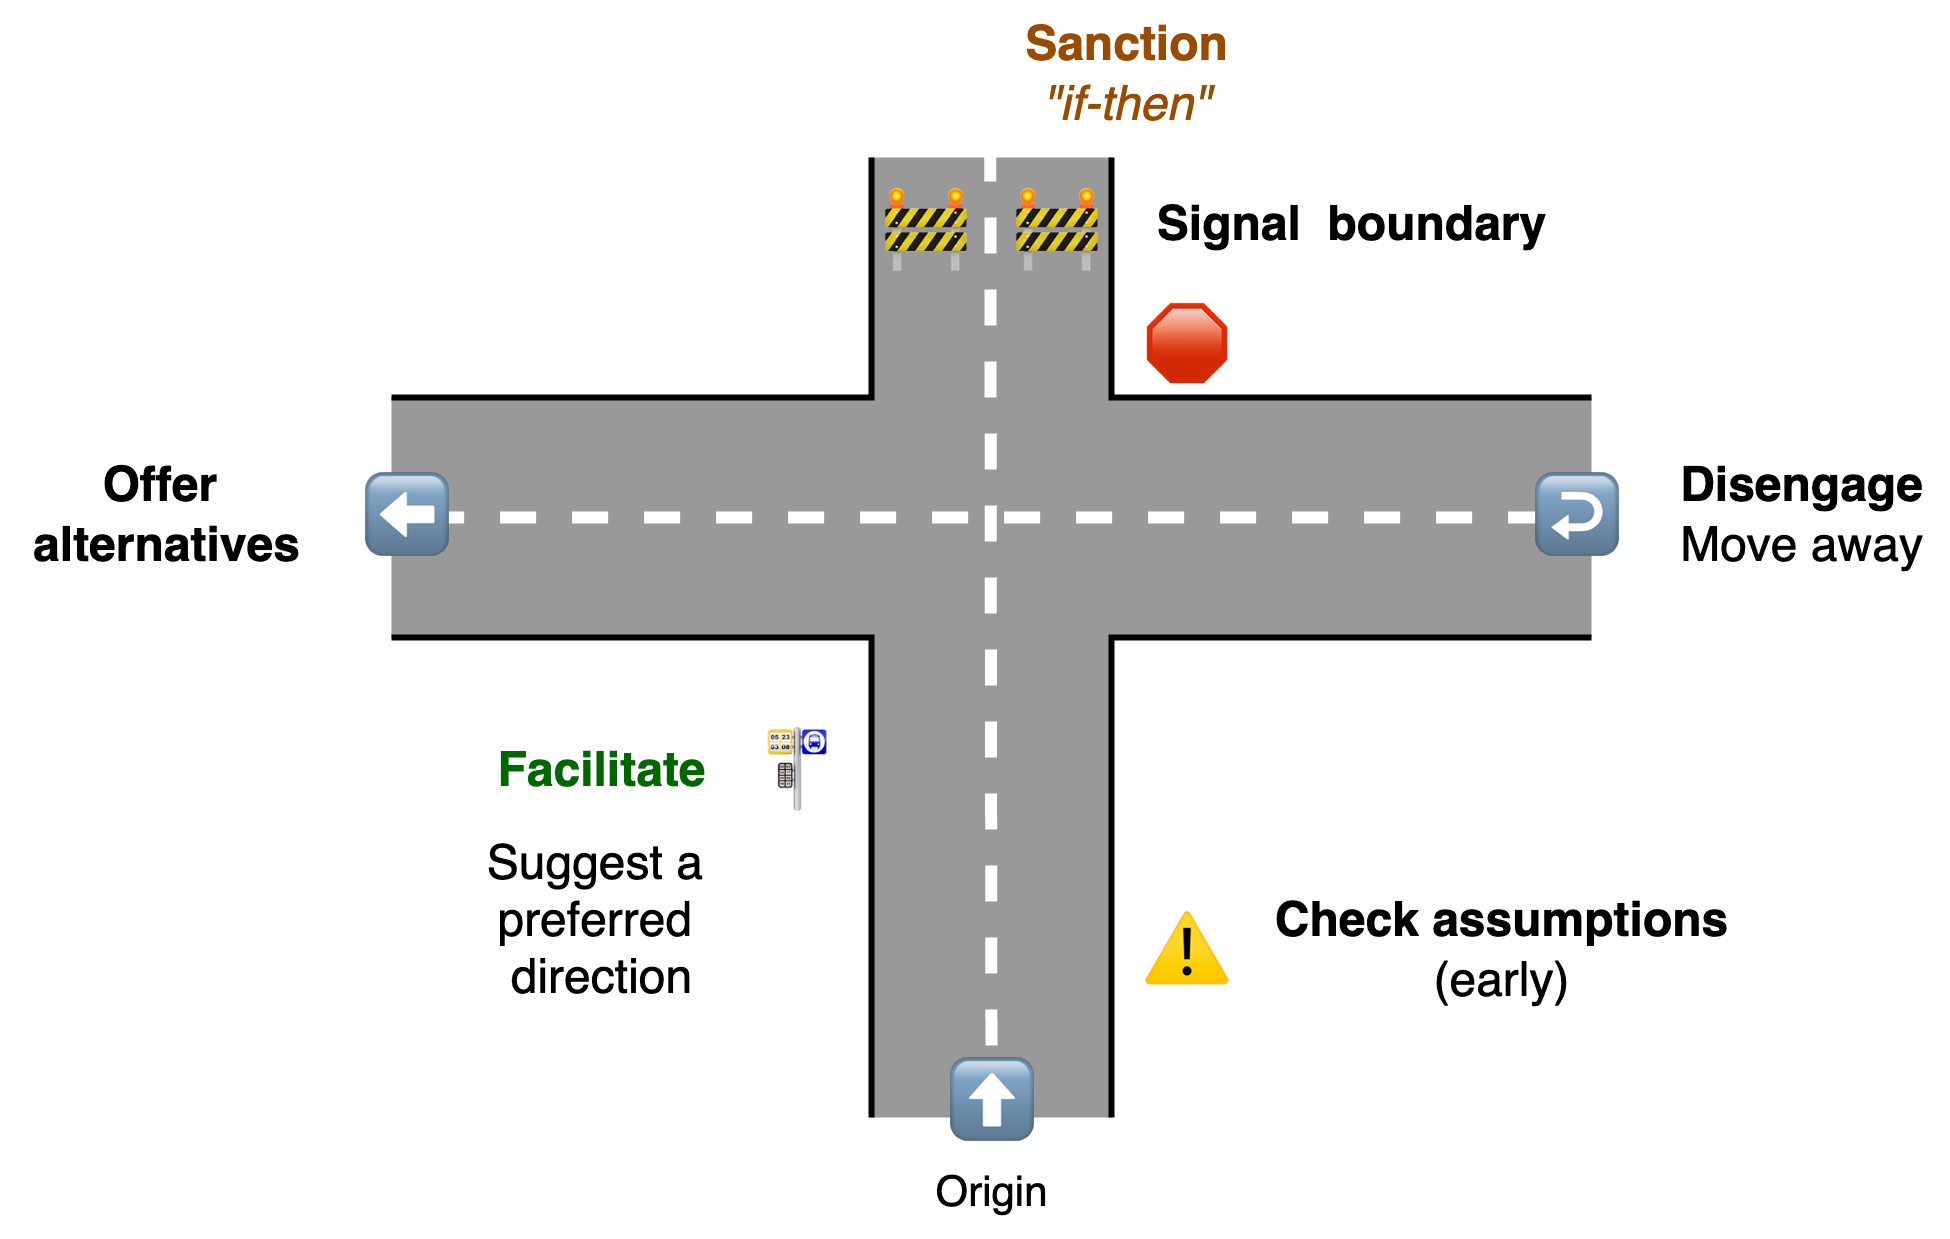
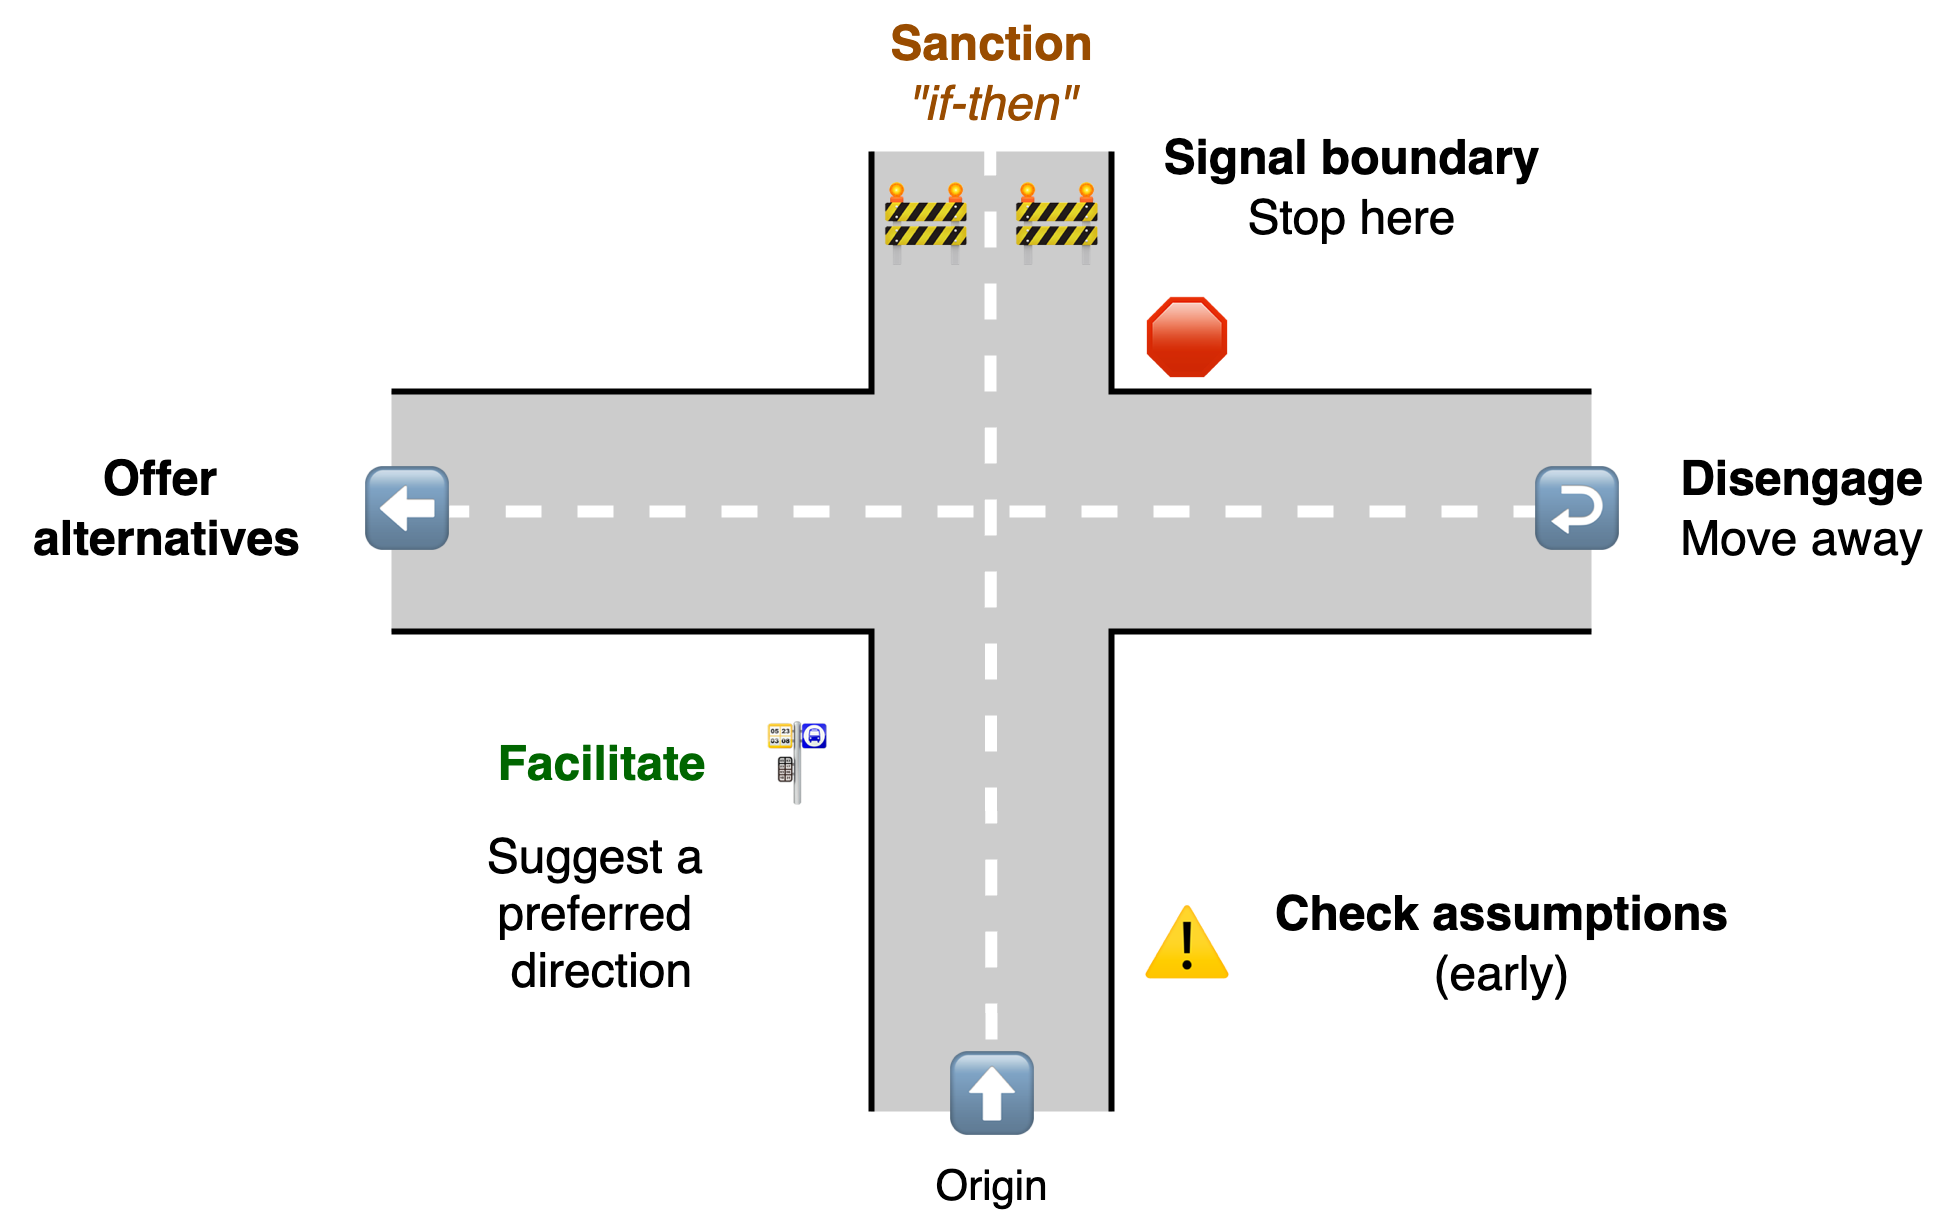
refactor

diff --git a/communication/styles.md b/communication/styles.md
@@ -137,12 +137,14 @@ Asserting yourself can be done in several stages. The following examples assumes
 1. Check assumptions. Ask for intent.
 2. Suggest an direction you like. Pro-actively.
 3. <u>Facilitate</u>. Suggest what you do want.
-4. 🛑 Signal the boundary. Clarify what you need.
+4. 🛑 Signal the boundary. Clarify *your* need.
    1. 🚧 <u>Sanction</u>. Share consequences. Your value or need.
    2. If nesesary, check if the boundary is clear.
 5. Uphold the boundary. Either:
    1. ⬅ Offer an alternative.
    2. ↩ Disengage completely
+
+
 
 <img src="../img/crossroads-boundaries.png" alt="crossroads-boundaries" style="width:40em;" />
 

diff --git a/README.md b/README.md
@@ -131,7 +131,7 @@ Social
 <ul style="margin: 1em;">
 <li>Communication</li>
 <ul style="margin: 0;">
-  <li><a href="communication/communication-principles.md">Communication principles</a> (human communication).</li>
+  <li><a href="communication/principles.md">Communication principles</a> (human communication).</li>
   <li><a href="collaboration/messaging.md">Messaging</a> (verbally or non-verbally).</li>
   <li><a href="collaboration/interview-questions.md">Interview Questions</a> (discovery).</li>
   <li><a href="collaboration/retrospectives.md">Retrospective</a> exercises for reflection for groups.</li>

diff --git a/communication/coaching-techniques.md b/communication/coaching-techniques.md
@@ -78,7 +78,7 @@ Purpose: zoom in towards core values and motivation.
 
 >  Each obstacle implies a strengths. 
 
-Purpose: understand extreme forms of behaviour. See [communication-principles](./communication-principles.md) and also [personality](../psychology/personality.md).
+Purpose: understand extreme forms of behaviour. See [communication-principles](./principles.md) and also [personality](../psychology/personality.md).
 
 ```markdown
 List of

diff --git a/collaboration/leadership.md b/collaboration/leadership.md
@@ -1,6 +1,6 @@
 # Leadership
 
-Leadership is the ability to connect, in the context of an organization. Communication [styles](../communication/communication-styles.md) play a huge role, whether in-person or [textual](documentation.md).
+Leadership is the ability to connect, in the context of an organization. Communication [styles](../communication/styles.md) play a huge role, whether in-person or [textual](documentation.md).
 
 [toc]
 

diff --git a/communication/context.md b/communication/context.md
@@ -1,6 +1,6 @@
 # Context in Communication
 
-Also see [communication styles](./communication-styles.md).
+Also see [communication styles](./styles.md).
 
 [toc]
 
